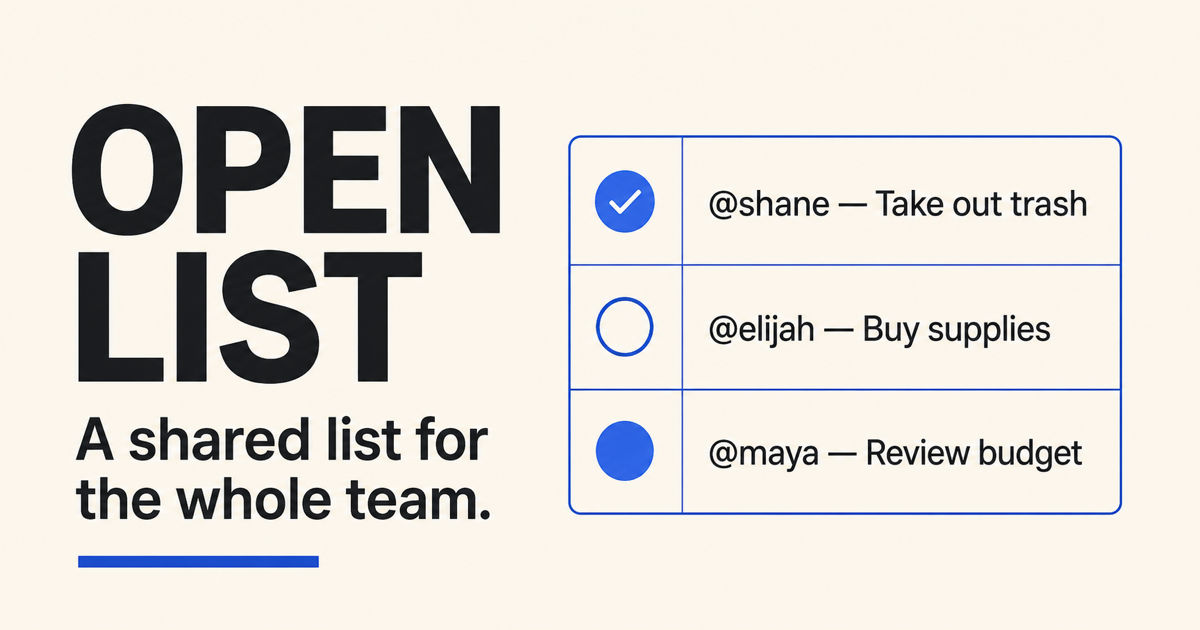
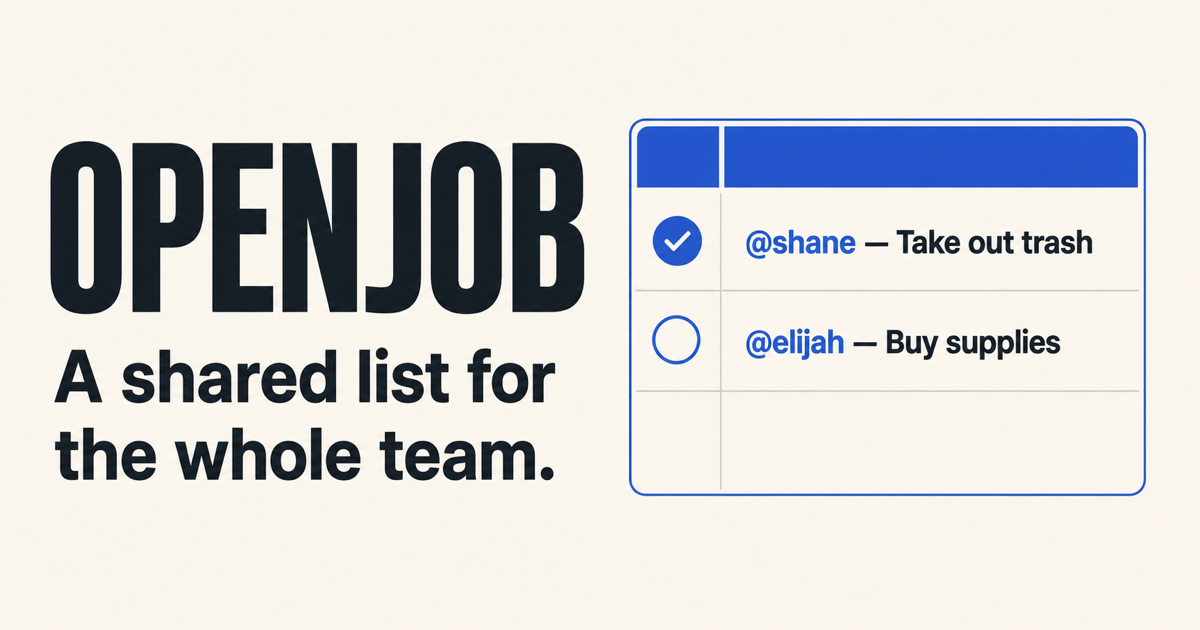
Rename standalone app to Openjob

Changed region(s): [[0.0308, 0.1508, 0.9558, 0.8444], [0.0617, 0.8746, 0.2775, 0.9048], [0.4625, 0.7841, 0.4933, 0.8143]]

diff --git a/app/layout.tsx b/app/layout.tsx
@@ -18,7 +18,7 @@ export async function generateMetadata(): Promise<Metadata> {
   const host =
     requestHeaders.get("x-forwarded-host") ??
     requestHeaders.get("host") ??
-    "open-list.local";
+    "openjob.local";
   const protocol =
     requestHeaders.get("x-forwarded-proto") ??
     (host.startsWith("localhost") ? "http" : "https");
@@ -28,11 +28,11 @@ export async function generateMetadata(): Promise<Metadata> {
 
   return {
     metadataBase: baseUrl,
-    title: "Open List — A shared team to-do list",
+    title: "Openjob — A shared team to-do list",
     description,
     icons: { icon: "/favicon.png", shortcut: "/favicon.png" },
     openGraph: {
-      title: "Open List",
+      title: "Openjob",
       description: "A shared list for the whole team.",
       type: "website",
       images: [
@@ -40,13 +40,13 @@ export async function generateMetadata(): Promise<Metadata> {
           url: new URL("/og.png", baseUrl),
           width: 1200,
           height: 630,
-          alt: "Open List, a shared list for the whole team",
+          alt: "Openjob, a shared list for the whole team",
         },
       ],
     },
     twitter: {
       card: "summary_large_image",
-      title: "Open List",
+      title: "Openjob",
       description: "A shared list for the whole team.",
       images: [new URL("/og.png", baseUrl)],
     },

diff --git a/app/page.tsx b/app/page.tsx
@@ -175,8 +175,8 @@ export default function Home() {
   return (
     <main className="site-shell">
       <header className="masthead">
-        <a className="wordmark" href="#top" aria-label="Open List home">
-          OPEN LIST<span>.</span>
+        <a className="wordmark" href="#top" aria-label="Openjob home">
+          OPENJOB<span>.</span>
         </a>
         <div className="shared-status">
           <span aria-hidden="true" /> Shared team board

diff --git a/README.md b/README.md
@@ -1,98 +1,45 @@
-# vinext-starter
+# Openjob
 
-A clean full-stack starter running on
-[vinext](https://github.com/cloudflare/vinext), with optional Cloudflare D1 and
-Drizzle support.
+A small public task board for teams. Add tasks with `@name — task`, optionally
+assign a date, then check them off.
 
-## Prerequisites
+## Run it
 
-- Node.js `>=22.13.0`
-
-## Quick Start
+Requires Node.js 22.13 or newer.
 
 ```bash
 npm install
 npm run dev
-npm run build
 ```
 
-This starter does not use `wrangler.jsonc`.
+Open <http://localhost:3000>. Use `npm test` before committing larger changes.
 
-## Included Shape
+## Where things live
 
-- edit site code under `app/`
-- `.openai/hosting.json` declares optional Sites D1 and R2 bindings
-- `vite.config.ts` simulates declared bindings for local development
-- `db/schema.ts` starts intentionally empty
-- `examples/d1/` contains an optional D1 example surface
-- `drizzle.config.ts` supports local migration generation when needed
+- `app/page.tsx` — task-board interface and interactions
+- `app/globals.css` — all styling
+- `app/api/tasks/route.ts` — task API
+- `db/tasks.ts` — database queries
+- `db/schema.ts` — task schema
+- `drizzle/` — database migrations
 
-## Workspace Auth Headers
+## Services
 
-OpenAI workspace sites can read the current user's email from
-`oai-authenticated-user-email`.
+The current data layer uses Cloudflare D1 through the logical `DB` binding in
+`.openai/hosting.json`. Local development supplies a local D1 database, so no
+account or keys are needed to start working.
 
-SIWC-authenticated workspace sites may also receive
-`oai-authenticated-user-full-name` when the user's SIWC profile has a non-empty
-`name` claim. The full-name value is percent-encoded UTF-8 and is accompanied by
-`oai-authenticated-user-full-name-encoding: percent-encoded-utf-8`.
+If you later choose Supabase, Neon, Firebase, or another database, keep the API
+contract in `app/api/tasks/route.ts` and replace the functions in `db/tasks.ts`.
+That isolates the service migration from the interface.
 
-Treat the full name as optional and fall back to email when it is absent:
+This copy has no Sites project ID and no Git remote. It cannot overwrite the
+original Open List deployment. Add your own remote with:
 
-```tsx
-import { headers } from "next/headers";
-
-export default async function Home() {
-  const requestHeaders = await headers();
-  const email = requestHeaders.get("oai-authenticated-user-email");
-  const encodedFullName = requestHeaders.get("oai-authenticated-user-full-name");
-  const fullName =
-    encodedFullName &&
-    requestHeaders.get("oai-authenticated-user-full-name-encoding") ===
-      "percent-encoded-utf-8"
-      ? decodeURIComponent(encodedFullName)
-      : null;
-
-  const displayName = fullName ?? email;
-  // ...
-}
+```bash
+git remote add origin YOUR_REPOSITORY_URL
+git push -u origin main
 ```
 
-## Optional Dispatch-Owned ChatGPT Sign-In
-
-Import the ready-to-use helpers from `app/chatgpt-auth.ts` when the site needs
-optional or required ChatGPT sign-in:
-
-- Use `getChatGPTUser()` for optional signed-in UI.
-- Use `requireChatGPTUser(returnTo)` for server-rendered pages that should send
-  anonymous visitors through Sign in with ChatGPT.
-- Use `chatGPTSignInPath(returnTo)` and `chatGPTSignOutPath(returnTo)` for
-  browser links or actions.
-- Pass a same-origin relative `returnTo` path for the destination after sign-in
-  or sign-out. The helper validates and safely encodes it.
-- Mark protected pages with `export const dynamic = "force-dynamic"` because
-  they depend on per-request identity headers.
-
-Dispatch owns `/signin-with-chatgpt`, `/signout-with-chatgpt`, `/callback`, the
-OAuth cookies, and identity header injection. Do not implement app routes for
-those reserved paths. Routes that do not import and call the helper remain
-anonymous-compatible.
-
-SIWC establishes identity only; it does not prove workspace membership. Use the
-Sites hosting platform's access policy controls for workspace-wide restrictions,
-or enforce explicit server-side membership or allowlist checks.
-
-Use SIWC for account pages, user-specific dashboards, saved records, and write
-actions tied to the current ChatGPT user. Leave public content anonymous.
-
-## Useful Commands
-
-- `npm run dev`: start local development
-- `npm run build`: verify the vinext build output
-- `npm test`: build the starter and verify its rendered loading skeleton
-- `npm run db:generate`: generate Drizzle migrations after schema changes
-
-## Learn More
-
-- [vinext Documentation](https://github.com/cloudflare/vinext)
-- [Drizzle D1 Guide](https://orm.drizzle.team/docs/get-started/d1-new)
+For a new Sites deployment, ask Codex to publish this folder; Sites will create
+a separate project and database for Openjob.